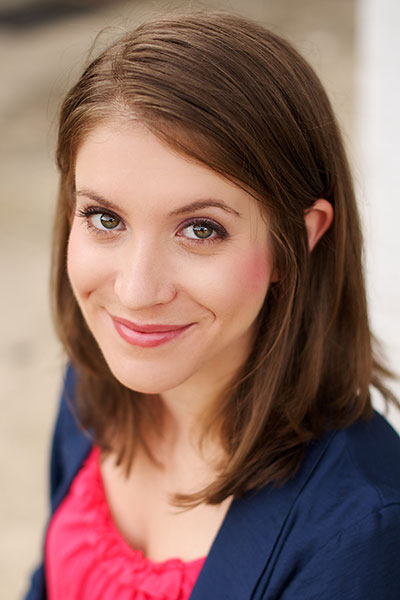
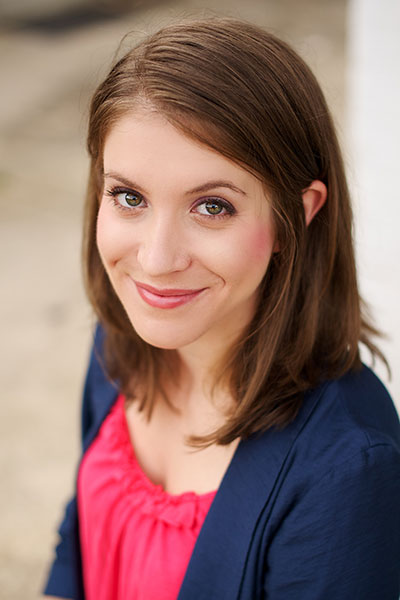
new cast

diff --git a/productions/cast.html b/productions/cast.html
@@ -87,50 +87,50 @@
 
 			<div class="row">
 				<div class="col-md-12">
-					<h2>The Cast of Let Nothing You Dismay</h2>
+					<h2>The Cast of Death by Design</h2>
 				</div>
                 <div class="col-md-6">
-                    <img src="../images/actors/brendle_bryan.jpg" class="treatment teaser pull-right" title="Bryan Brendle" alt="Bryan Brendle" />
-                    <h5>Bryan Brendle</h5>
-                    <p>Bryan Brendle is tickled pink to be back at Stage Door! Around town Bryan has worked at Actors Express, ART Station, Atlanta Lyric, Aurora, Georgia Ensemble, Horizon, Pinch n Ouch, and Serenbe. He received a BFA in Acting from The Florida State University. Bryan would like to thank Robert, Topher and the entire cast and crew. Special thanks to darling Alexandra. And thank you for supporting live theatre!</p>
+                    <img src="../images/actors/anderson_chase.jpg" class="treatment teaser pull-right" title="Chase Steven Anderson" alt="Chase Steven Anderson" />
+                    <h5>Chase Steven Anderson</h5>
+                    <p>Chase Steven Anderson is thrilled to be making his Stage Door Players debut! Recent Stage Credits include Of Mice &amp; Men and Charlotte's Web (Serenbe Playhouse), and Love/Sick (Aurora). Film: Tyler Perry's Too Close to Home (TLC), Nashville (ABC), Powers (PlayStation), Satisfaction (USA), Ride Along (Universal), Necessary Roughness (USA), One Tree Hill (CW), plus commercials for Cheez-It &amp; Farm Rich. Look for him in the upcoming Warner Brother's comedy, Bastards, coming soon to Theaters. Chase lives in Atlanta and is proudly represented by Houghton Talent, Inc. EDU: BFA Acting/Directing from Columbus State University. Love to family and friends, and many thanks to Robert &amp; the creative team for this opportunity.</p>
                 </div>
                 <div class="col-md-6">
-                    <img src="../images/actors/cucher_amanda.jpg" class="treatment teaser pull-right" title="Amanda Cucher" alt="Amanda Cucher" />
-                    <h5>Amanda Cucher</h5>
-                    <p>Amanda Cucher is pleased as punch to return to Stage Door Players in this crazy remount, after her previous Woodie Award winning performance in Sylvia, as well as Madge Geisel in The Game’s Afoot, or Holmes for the Holidays, Dana in Beached Wails, Randi in Greetings, and Traci in Spreading it Around. Other local theatrical endeavors include Margie in Good People, Brooke Wyeth in Other Desert Cities and Sister James in Doubt at Out of Box Theater, Evelyn in Evelyn in Purgatory with Essential Theatre Company, Bernstein in November by David Mamet and Barbara Grant in Perfect Arrangement with Process Theatre Company She would like to thank Shannon and Robert, this amazing cast, and Topher.</p>
-                </div>
-                <div class="clearfix"></div>
-                <div class="col-md-6">
-                    <img src="../images/actors/gray_mark.jpg" class="treatment teaser pull-right" title="Mark Gray" alt="Mark Gray" />
-                    <h5>Mark Gray</h5>
-                    <p>Mark is honored to be returning to Stage Door Players to play once again in the Suzi Award winning “Let Nothing You Dismay”. Winning the Best Ensemble award and then coming back with the same cast is something every actor would want. You might remember Mark from the SDP productions of It’s A Wonderful Life A Radio Play, Lend Me A Tenor and Blythe Spirit. Additional theatre credits include 1:23 for Synchronicity Theatre as well as Based on a Totally True Story, Bent, Gypsy, Bee Luther Hatchee, Doll Plays and Auntie Mame all for Actors Express. Marks television credits include Showtime’s Comedy Club Network, Days of Our Lives on NBC and One West Waikiki for ABC. Mark has also been featured in the films World Traveler, Bobby Jones - Stroke of Genius and Tyler Perry’s Meet The Browns. A big thank you to Robert, Shannon and Topher for this second helping of fun with an amazing group of artists. Saving the biggest thanks for Virgia, his wife for more than 32 years for agreeing to be a theatre widow – once again</p>
-                </div>
-                <div class="col-md-6">
-                    <img src="../images/actors/mccook_shelly.jpg" class="treatment teaser pull-right" title="Shelly McCook" alt="Shelly McCook" />
-                    <h5>Shelly McCook</h5>
-                    <p>Shelly McCook is so happy to be back with this crazy cast, Director and the rest of the Stage Door Players gang after last years’ amazing run, and previously directing Sylvia and The Odd Couple here at SDP. Shelly is has performed or directed on most of the Atlanta professional stages including Georgia Ensemble, the late Theatre in the Square, Theatrical Outfit, 7Stages, Actors Express, Aurora, Horizon and the Alliance Theatre. She is an acting coach and teacher and will be teaching comedy classes for both adults and teens at Elm Street Arts Village this summer.  </p>
+                    <img src="../images/actors/burns_daniel.jpg" class="treatment teaser pull-right" title="Daniel Burns" alt="Daniel Burns" />
+                    <h5>Daniel Burns</h5>
+                    <p>Daniel Burns is thrilled to be returning to Stage Door Players. Previously he appeared on this stage as Frank in Godspell and as Bazzard in The Mystery of Edwin Drood. Other recent roles include Don Price in Big Fish (Theatrical Outfit), Peter in Company and Fogg in Sweeney Todd (Actors Express), Enoch Snow in Carousel and Padre in Man of La Mancha (Serenbe Playhouse). He would like to thank his family, friends, and Paige for their continuous love and support.</p>
                 </div>
                 <div class="clearfix"></div>
                 <div class="col-md-6">
-                    <img src="../images/actors/reynolds_doyle.jpg" class="treatment teaser pull-right" title="Doyle Reynolds" alt="Doyle Reynolds" />
-                    <h5>Doyle Reynolds</h5>
-                    <p>Doyle Reynolds is very happy to be back at Stage Door and working with this incredibly funny, talented and award-winning group of people. He was here last year in this same show and that summer’s “Sylvia” (Woodie Award &amp; Suzi Bass Nomination). He is an Associate Artist with Actor’s Express, where he has performed in “6 Degrees of Separation,” “100 Saints You Should Know,” “Finn In The Underworld,” “Some Men” (Suzi Bass Nomination)” and “I Am My Own Wife” (Suzi Bass Award). At Synchronicity: “Anne Boleyn” and “The Vibrator Play.”  At Geva Theatre and Aurora Theatre: “Bob.” At 7 Stages: “Mr. Universe” and “The Violet Hour.” Other credits include extensive work with Dad’s Garage Theatre, Theatre in the Square, Pinch ‘n Ouch, Jewish Theatre of The South, Horizon Theatre Company and many others.  Thank you for supporting live theatre!</p>
+                    <img src="../images/actors/criss_kelly.jpg" class="treatment teaser pull-right" title="Kelly Criss" alt="Kelly Criss" />
+                    <h5>Kelly Criss</h5>
+                    <p>Kelly Criss is so happy to be back at SDP! She has been working as a professional actor (Don't Dress for Dinner, Moon Over Buffalo, and Miracle on South Division Street all here at Stage Door), producer, and director for several years in the Atlanta area. Other favorite Atlanta credits include Hamlet and Romeo &amp; Juliet (Atlanta Shakespeare Co.), 4000 Miles (Aurora Theatre), and Desdemona (Weird Sisters Theatre Project). For the past four years, she served as Artistic &amp; Education Manager at Horizon Theatre. Recently, she has joined the High Museum of Art as Manager of Special Projects. She is thrilled to work with this wonderful cast and production team. Love to Matt!</p>
                 </div>
                 <div class="col-md-6">
-                    <img src="../images/actors/rickicki_gina.jpg" class="treatment teaser pull-right" title="Gina Rickicki" alt="Gina Rickicki" />
-                    <h5>Gina Rickicki</h5>
-                    <p>Gina Rickicki has been bringing her character-based fun to Atlanta for a few years since relocating from New York, where she received her BFA in theatre from Long Island University. Her most recent work includes When Things are Lost with the Essential Theatre. She's thrilled to be back for more frozen faced fun at Stage Door Players! You may have also caught her work with Dad’s Garage, The Weird Sisters, Horizon, and Aris Theatres. Find her in the new year in Lost in the Cosmos at Theatrical Outfit. In addition to acting, she performs her writing at live literature events around the city.</p>
+                    <img src="../images/actors/daniel_joanna.jpg" class="treatment teaser pull-right" title="Joanna Daniel" alt="Joanna Daniel" />
+                    <h5>Joanna Daniel</h5>
+                    <p>Joanna Daniel is delighted to be returning to SDP to play in this farcical mystery!!  During the past couple of years she has been seen at Arís in The Artist Man and the Mother Woman, and Georgia Ensemble Theatre in Calendar Girls and Charley’s Aunt.  She also played the role of Lord Capulet in Fern Theatre’s all-female production of Romeo and Juliet, as well as the title character in their all-female production of King Lear.  When not performing, Joanna keeps busy behind the scenes at Arís  (pronounced Ah-Reesh), Atlanta’s Celtic Theatre Company, where she plays the roles of Treasurer, Producer and Founding Member.  Many thanks to Robert and Suehyla and the whole team at SDP, and most of all to you for supporting live theatre!</p>
                 </div>
                 <div class="clearfix"></div>
                 <div class="col-md-6">
-                    <img src="../images/actors/sams_emily.jpg" class="treatment teaser pull-right" title="Emily Sams" alt="Emily Sams" />
-                    <h5>Emily Sams</h5>
-                    <p>Emily Sams (Allie, Lizzie) is ECSTATIC to be back at Stage Door Players! Her past credits include Amelia in The Credeaux Canvas, Carly Simon in Shadows &amp; Light, and Jackie-O in House of Yes at Out of Box Theatre. Other favorites were Linda in The Wedding Singer, Maureen in RENT, and Lucy in You're a Good Man, Charlie Brown. Thank you to the rest of the cast for being RIDICULOUSLY TALENTED, and an absolute riot to work with. And of course Shannon and Topher - thank you for the opportunity - and for asking me back!!! HUGE thanks to family, friends, and Dan for your love and encouragement. And to anyone reading this program - thank you for supporting the local arts!</p>
+                    <img src="../images/actors/stillwell_kevin.jpg" class="treatment teaser pull-right" title="Kevin Stillwell" alt="Kevin Stillwell" />
+                    <h5>Kevin Stillwell</h5>
+                    <p>This is Kevin's first appearance at Stage Door, and what a delightful show to debut in! Kevin is an actor, director, fight choreographer and voice over artist. Recent credits include: Appropriate (Actor's Express), Three Penny Opera &amp; The Breakers (7 Stages), Calendar Girls &amp; R&amp;J (G.E.T.), Lasso of Truth (Synchronicity), Confirmation HBO, among others. Thanks to Suehyla, and to Melich...FLY.</p>
+                </div>
+                <div class="col-md-6">
+                    <img src="../images/actors/striepe_bryn.jpg" class="treatment teaser pull-right" title="Bryn Striepe" alt="Bryn Striepe" />
+                    <h5>Bryn Striepe</h5>
+                    <p>Bryn Striepe is really trying hard not to start this bio off with how happy she is to be a part of her first Stage Door production, because everyone says that. The problem is, it’s true. Atlanta credits include Horizon: Freed Spirits (MJ); Synchronicity: In the Next Room, or the vibrator play (Mrs. Givings), Lasso of Truth (The Amazon); Actor’s Express: Seminar (Izzy); Out of Box: Rapture, Blister, Burn (Avery); The Weird Sisters: Hot Pink (Taatanya); Pinch’N’Ouch: Wall Street Wedding (Becky); The Fern Theatre: Romeo & Juliet (Romeo), Being Alive (Jen), Macbeth (Lady Macbeth). Originally from California, she holds a BA in Theatre from Willamette University and is a previous Actor’s Express intern. Thank you, just generally.</p>
+                </div>
+                <div class="clearfix"></div>
+                <div class="col-md-6">
+                    <img src="../images/actors/young_pat.jpg" class="treatment teaser pull-right" title="Pat Young" alt="Pat Young" />
+                    <h5>Pat Young</h5>
+                    <p>Pat Young is thrilled to be doing his first show at Stage Door Players! Pat is an actor, improviser, and entertainer with a BA in theatre from FSU. His last shows include The Tribute Artist with Process Theatre, Knock Em' Dead with Gypsy Theatre, and Lillian Likes It with Essential Theatre. Pat owns a trivia company called Trivial Matters, which has the best trivia games in Atlanta, and that isn't an exaggeration. He also has a Guinness World Record to his name. You should ask him about it. Pat would like to thank his lady friend and the cats. Though lets be honest, the cats probably don't care about any of this.</p>
                 </div>                
                 <div class="col-md-6">
-                    <img src="../images/actors/silver_ben.jpg" class="treatment teaser pull-right" title="Ben Silver" alt="Ben Silver" />
-                    <h5>Ben Silver</h5>
-                    <p>Ben Silver is excited to return to Stage Door and relive one of his most fond memories of 2015. He could not be more excited to be collaborating with Topher Payne on this incredible (and Suzi winning!) project. His Atlanta credits include Tuck Everlasting (Alliance Theatre) Over The Rainbow, Six Degrees of Separation (Actor's Express) Lillian Likes It, Mysterious Connections (Essential Theatre) Film/TV: "Alone With People," "Hubcap," "Your Worst Nightmare" and "Walter Frisk, Let's Go!". Thanks to his incredible parents and this unbelievably talented ensemble. </p>
+                    <img src="../images/actors/halicks_sarah_newby.jpg" class="treatment teaser pull-right" title="Sarah Newby Halicks" alt="Sarah Newby Halicks" />
+                    <h5>Sarah Newby Halicks</h5>
+                    <p>Sarah Newby Halicks is delighted to return to Stage Door this year! Previous SDP credits include "I Do, I Do, I Do." Other Atlanta credits include "Two Gentlemen of Verona" and "Much Ado about Nothing" (Shakespeare Tavern), "The Addams Family" (Onstage Atlanta), and you also may have seen her staggering around in a Shitfaced Shakespeare production of "A Midsummer Night's Dream." Many thanks to Robert and Suehyla for their vision and guidance. Love to family and to Sir Matthew. Represented by Aligned Stars Agency.</p>
                 </div>
                 <div class="clearfix"></div>
             </div>

diff --git a/productions/show-death-by-design.html b/productions/show-death-by-design.html
@@ -92,8 +92,8 @@
                     <h6>By Rob Urbinati</h6>
                 </div>
                 
-                <!-- <div class="col-sm-8">
-                    <div id="let_nothing_you_dismay" class="swiper-container">
+<!--                 <div class="col-sm-8">
+                    <div id="death_by_design" class="swiper-container">
                         <div class="swiper-wrapper">
 
                         </div>
@@ -102,45 +102,45 @@
                 </div> -->
             </div>
 
-<!--             <div class="row">
+            <div class="row">
                 <div class="col-md-12">
                     <h4>Cast</h4>
                     <div class="row">
                         <div class="col-xs-6 col-sm-2 cast">
-                            <img src="../images/actors/brendle_bryan.jpg" class="tease" title="Bryan Brendle" alt="Bryan Brendle" />
-                            <p>Bryan Brendle</p>
+                            <img src="../images/actors/anderson_chase.jpg" class="tease" title="Chase Anderson" alt="Chase Anderson" />
+                            <p>Chase Anderson</p>
                         </div>
                         <div class="col-xs-6 col-sm-2 cast">
-                            <img src="../images/actors/cucher_amanda.jpg" class="tease" title="Amanda Cucher" alt="Amanda Cucher" />
-                            <p>Amanda Cucher</p>
+                            <img src="../images/actors/burns_daniel.jpg" class="tease" title="Daniel Burns" alt="Daniel Burns" />
+                            <p>Daniel Burns</p>
                         </div>
                         <div class="col-xs-6 col-sm-2 cast">
-                            <img src="../images/actors/gray_mark.jpg" class="tease" title="Mark Gray" alt="Mark Gray" />
-                            <p>Mark Gray</p>
+                            <img src="../images/actors/criss_kelly.jpg" class="tease" title="Kelly Criss" alt="Kelly Criss" />
+                            <p>Kelly Criss</p>
                         </div>
                         <div class="col-xs-6 col-sm-2 cast">
-                            <img src="../images/actors/mccook_shelly.jpg" class="tease" title="Shelly McCook" alt="Shelly McCook" />
-                            <p>Shelly McCook</p>
+                            <img src="../images/actors/daniel_joanna.jpg" class="tease" title="Joanna Daniel" alt="Joanna Daniel" />
+                            <p>Joanna Daniel</p>
                         </div>
                         <div class="col-xs-6 col-sm-2 cast">
-                            <img src="../images/actors/reynolds_doyle.jpg" class="tease" title="Doyle Reynolds" alt="Doyle Reynolds" />
-                            <p>Doyle Reynolds</p>
+                            <img src="../images/actors/stillwell_kevin.jpg" class="tease" title="Kevin Stillwell" alt="Kevin Stillwell" />
+                            <p>Kevin Stillwell</p>
                         </div>
                         <div class="col-xs-6 col-sm-2 cast">
-                            <img src="../images/actors/rickicki_gina.jpg" class="tease" title="Gina Rickicki" alt="Gina Rickicki" />
-                            <p>Gina Rickicki</p>
+                            <img src="../images/actors/striepe_bryn.jpg" class="tease" title="Bryn Striepe" alt="Bryn Striepe" />
+                            <p>Bryn Striepe</p>
                         </div>
                         <div class="col-xs-6 col-sm-2 cast">
-                            <img src="../images/actors/sams_emily.jpg" class="tease" title="Emily Sams" alt="Emily Sams" />
-                            <p>Emily Sams</p>
+                            <img src="../images/actors/young_pat.jpg" class="tease" title="Pat Young" alt="Pat Young" />
+                            <p>Pat Young</p>
                         </div>
                         <div class="col-xs-6 col-sm-2 cast">
-                            <img src="../images/actors/silver_ben.jpg" class="tease" title="Ben Silver" alt="Ben Silver" />
-                            <p>Ben Silver</p>
+                            <img src="../images/actors/halicks_sarah_newby.jpg" class="tease" title="Sarah Newby Halicks" alt="Sarah Newby Halicks" />
+                            <p>Sarah Newby Halicks</p>
                         </div>
                     </div>
                 </div>
-            </div> -->
+            </div>
         </div>
         <div class="container-fluid footer">
             <div class="container">

diff --git a/index.html b/index.html
@@ -84,7 +84,7 @@
                 <div class="col-md-12">
                 	<h3>Death by Design</h3>
                     <p>Set during a weekend in an English country manor in 1932, Death by Design answers the question of what would happen if Noel Coward were to pen an Agatha Christie murder mystery. A celebrated playwright and his actress wife flee to the countryside after a disastrous opening night, only to find themselves visited by various surprise guests, all with secrets – until one of them ends up being murdered. Solving the crime will be up to the feisty Irish maid with a macabre interest in homicide.</p>
-                    <!-- <p><a href="productions/cast.html">Death by Design</a></p> -->
+                    <p><a href="productions/cast.html">Meet the cast of Death by Design</a></p>
                     <h5>January 27 through February 19, 2017</h5>
                     <h5>By Rob Urbinati</h5>
                 </div>
